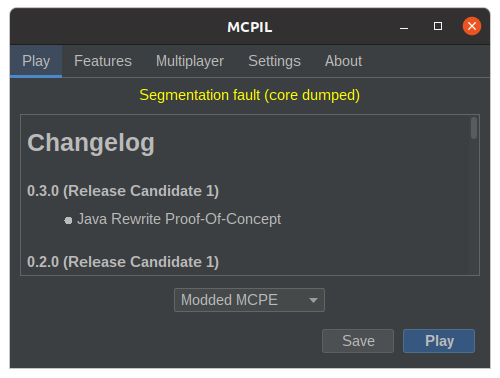
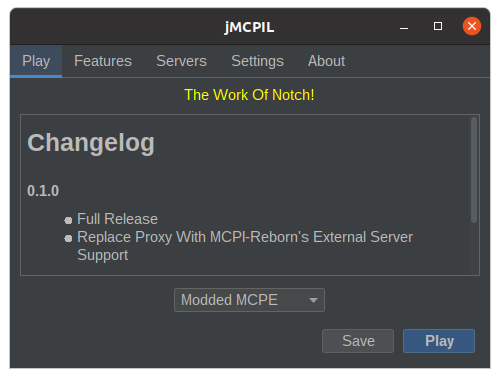
0.1.0: Full Release

diff --git a/src/main/java/com/thebrokenrail/jmcpil/gui/tab/ServersTab.java b/src/main/java/com/thebrokenrail/jmcpil/gui/tab/ServersTab.java
@@ -1,0 +1,173 @@
+package com.thebrokenrail.jmcpil.gui.tab;
+
+import com.thebrokenrail.jmcpil.config.Config;
+import com.thebrokenrail.jmcpil.util.Util;
+
+import javax.swing.DefaultListModel;
+import javax.swing.JButton;
+import javax.swing.JList;
+import javax.swing.JPanel;
+import javax.swing.JScrollPane;
+import javax.swing.JSeparator;
+import javax.swing.JTextField;
+import javax.swing.ListSelectionModel;
+import javax.swing.ScrollPaneConstants;
+import javax.swing.SwingConstants;
+import java.awt.GridBagConstraints;
+import java.awt.GridBagLayout;
+import java.awt.event.ActionEvent;
+import java.awt.event.ActionListener;
+import java.io.File;
+import java.io.FileWriter;
+import java.io.IOException;
+import java.util.ArrayList;
+import java.util.List;
+
+/**
+ * Servers Tab
+ */
+public class ServersTab extends JPanel implements ActionListener {
+    /**
+     * Server List Widget
+     */
+    private final JList<String> list;
+    /**
+     * New Server Text Entry Widget
+     */
+    private final JTextField entry;
+
+    ServersTab() {
+        super(new GridBagLayout());
+
+        // Create List
+        list = new JList<>(new DefaultListModel<>());
+        list.setSelectionMode(ListSelectionModel.SINGLE_SELECTION);
+        list.setLayoutOrientation(JList.VERTICAL);
+        list.setVisibleRowCount(-1);
+
+        // Configure Config
+        Config.addHandler("save", config -> {
+            config.servers.clear();
+            for (int i = 0; i < list.getModel().getSize(); i++) {
+                config.servers.add(list.getModel().getElementAt(i));
+            }
+        });
+        Config.addHandler("load", config -> {
+            // Sanitize
+            List<String> newServers = new ArrayList<>();
+            for (String server : config.servers) {
+                if (server.length() > 0) {
+                    newServers.add(server.replaceAll("\n", " ").replaceAll("\r", ""));
+                }
+            }
+            config.servers = newServers;
+            // Add
+            DefaultListModel<String> model = new DefaultListModel<>();
+            model.addAll(config.servers);
+            list.setModel(model);
+        });
+        Config.addHandler("apply", config -> {
+            try {
+                File serverList = new File(System.getenv("HOME"), ".minecraft-pi/servers.txt");
+                //noinspection ResultOfMethodCallIgnored
+                serverList.getParentFile().mkdirs();
+                //noinspection ResultOfMethodCallIgnored
+                serverList.createNewFile();
+                FileWriter writer = new FileWriter(serverList, false);
+                writer.write("# Managed By jMCPIL\n");
+                for (String server : config.servers) {
+                    writer.write(server + '\n');
+                }
+                writer.close();
+            } catch (IOException e) {
+                throw new RuntimeException(e);
+            }
+        });
+
+        // Add List
+        JScrollPane scrollingList = new JScrollPane(list);
+        scrollingList.setVerticalScrollBarPolicy(ScrollPaneConstants.VERTICAL_SCROLLBAR_ALWAYS);
+        JPanel wrappedList = Util.wrap(scrollingList);
+        GridBagConstraints layoutRestrictions = new GridBagConstraints();
+        layoutRestrictions.gridx = 0;
+        layoutRestrictions.gridy = 0;
+        layoutRestrictions.gridwidth = 4;
+        layoutRestrictions.weightx = 1;
+        layoutRestrictions.weighty = 1;
+        layoutRestrictions.fill = GridBagConstraints.BOTH;
+        Util.addPadding(wrappedList, 8, 0, 8, 8);
+        add(wrappedList, layoutRestrictions);
+
+        // Add Delete Button
+        JButton delete = new JButton("Delete");
+        delete.setActionCommand("delete");
+        delete.addActionListener(this);
+        // Wrap
+        JPanel wrappedDelete = Util.wrap(delete);
+        layoutRestrictions = new GridBagConstraints();
+        layoutRestrictions.gridx = 0;
+        layoutRestrictions.gridy = 1;
+        Util.addPadding(wrappedDelete, 8);
+        add(wrappedDelete, layoutRestrictions);
+
+        // Add Separator
+        JSeparator separator = new JSeparator(SwingConstants.VERTICAL);
+        // Wrap
+        JPanel wrappedSeparator = Util.wrap(separator);
+        layoutRestrictions = new GridBagConstraints();
+        layoutRestrictions.gridx = 1;
+        layoutRestrictions.gridy = 1;
+        layoutRestrictions.fill = GridBagConstraints.VERTICAL;
+        Util.addPadding(wrappedSeparator, 0, 8);
+        add(wrappedSeparator, layoutRestrictions);
+
+        // Add New Server Entry
+        entry = new JTextField();
+        entry.setActionCommand("add");
+        entry.addActionListener(this);
+        // Wrap
+        JPanel wrappedEntry = Util.wrap(entry);
+        layoutRestrictions = new GridBagConstraints();
+        layoutRestrictions.gridx = 2;
+        layoutRestrictions.gridy = 1;
+        layoutRestrictions.weightx = 1;
+        layoutRestrictions.fill = GridBagConstraints.HORIZONTAL;
+        Util.addPadding(wrappedEntry, 8);
+        add(wrappedEntry, layoutRestrictions);
+
+        // Add New Server Button
+        JButton add = new JButton("Add");
+        add.setActionCommand("add");
+        add.addActionListener(this);
+        // Wrap
+        JPanel wrappedAdd = Util.wrap(add);
+        layoutRestrictions = new GridBagConstraints();
+        layoutRestrictions.gridx = 3;
+        layoutRestrictions.gridy = 1;
+        Util.addPadding(wrappedAdd, 8, 8, 0, 8);
+        add(wrappedAdd, layoutRestrictions);
+    }
+
+    /**
+     * Handle Button Press
+     * @param actionEvent Action To Handle
+     */
+    @Override
+    public void actionPerformed(ActionEvent actionEvent) {
+        String action = actionEvent.getActionCommand();
+        if (action.equals("delete")) {
+            // Delete Selected Server
+            int index = list.getSelectedIndex();
+            if (index != -1) {
+                ((DefaultListModel<String>) list.getModel()).remove(index);
+            }
+        } else if (action.equals("add")) {
+            // Add New Server
+            String newServer = entry.getText();
+            entry.setText("");
+            if (newServer.length() > 0) {
+                ((DefaultListModel<String>) list.getModel()).addElement(newServer);
+            }
+        }
+    }
+}

diff --git a/src/main/java/com/thebrokenrail/jmcpil/config/Config.java b/src/main/java/com/thebrokenrail/jmcpil/config/Config.java
@@ -4,6 +4,8 @@ import com.thebrokenrail.jmcpil.util.RenderDistance;
 import com.thebrokenrail.jmcpil.util.Launcher;
 
 import java.util.ArrayList;
+import java.util.Arrays;
+import java.util.Collections;
 import java.util.HashMap;
 import java.util.List;
 import java.util.Map;
@@ -66,20 +68,7 @@ public class Config {
     public GeneralSettings general = new GeneralSettings();
 
     /**
-     * Multiplayer Settings
+     * Server List Property
      */
-    public static class MultiplayerSettings {
-        /**
-         * Ip Address
-         */
-        public String ip = "thebrokenrail.com";
-        /**
-         * Port
-         */
-        public int port = 19132;
-    }
-    /**
-     * Multiplayer Settings Property
-     */
-    public MultiplayerSettings multiplayer = new MultiplayerSettings();
+    public List<String> servers = new ArrayList<>(Collections.singletonList("thebrokenrail.com"));
 }

diff --git a/src/main/java/com/thebrokenrail/jmcpil/gui/control/PlayButton.java b/src/main/java/com/thebrokenrail/jmcpil/gui/control/PlayButton.java
@@ -35,6 +35,9 @@ public class PlayButton extends JButton implements ActionListener {
     public void actionPerformed(ActionEvent actionEvent) {
         String action = actionEvent.getActionCommand();
         if (action.equals("play") && process == null) {
+            // Save
+            ConfigHandler.save();
+
             // Start MCPI-Reborn
             Config config = ConfigHandler.getConfig();
             process = Launcher.run(Profile.getFeatures(Profile.getCurrentProfile()), config.general.renderDistance, config.general.username);

diff --git a/src/main/java/com/thebrokenrail/jmcpil/gui/tab/MainTabs.java b/src/main/java/com/thebrokenrail/jmcpil/gui/tab/MainTabs.java
@@ -12,7 +12,7 @@ public class MainTabs extends JTabbedPane {
         // Add Tabs
         addTab("Play", new PlayTab());
         addTab("Features", new FeaturesTab());
-        addTab("Multiplayer", new MultiplayerTab());
+        addTab("Servers", new ServersTab());
         addTab("Settings", new SettingsTab());
         addTab("About", new AboutTab());
     }

diff --git a/src/main/java/com/thebrokenrail/jmcpil/config/ConfigHandler.java b/src/main/java/com/thebrokenrail/jmcpil/config/ConfigHandler.java
@@ -23,7 +23,7 @@ public class ConfigHandler {
         return config;
     }
 
-    private static final String CONFIG_FILE = System.getenv("HOME") + "/.mcpil.json";
+    private static final String CONFIG_FILE = System.getenv("HOME") + "/.jmcpil.json";
 
     /**
      * Save Config

diff --git a/CHANGELOG.md b/CHANGELOG.md
@@ -1,4 +1,8 @@
 # Changelog
 
+**0.1.0**
+* Full Release
+* Replace Proxy With MCPI-Reborn's External Server Support
+
 **0.1.0 (Release Candidate 1)**
-- Java Rewrite Proof-Of-Concept
+* Java Rewrite Proof-Of-Concept
